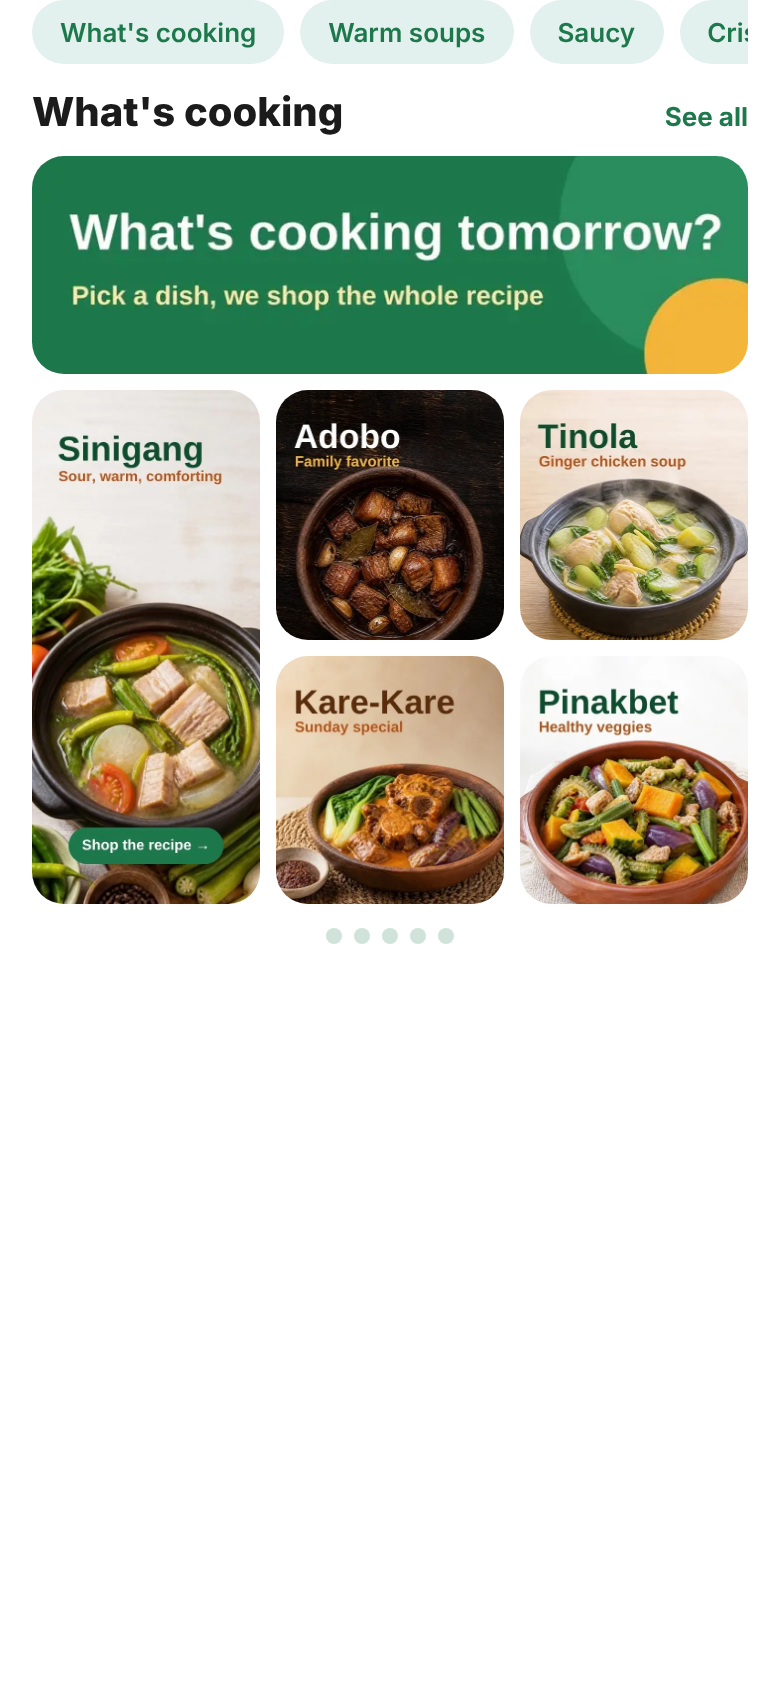
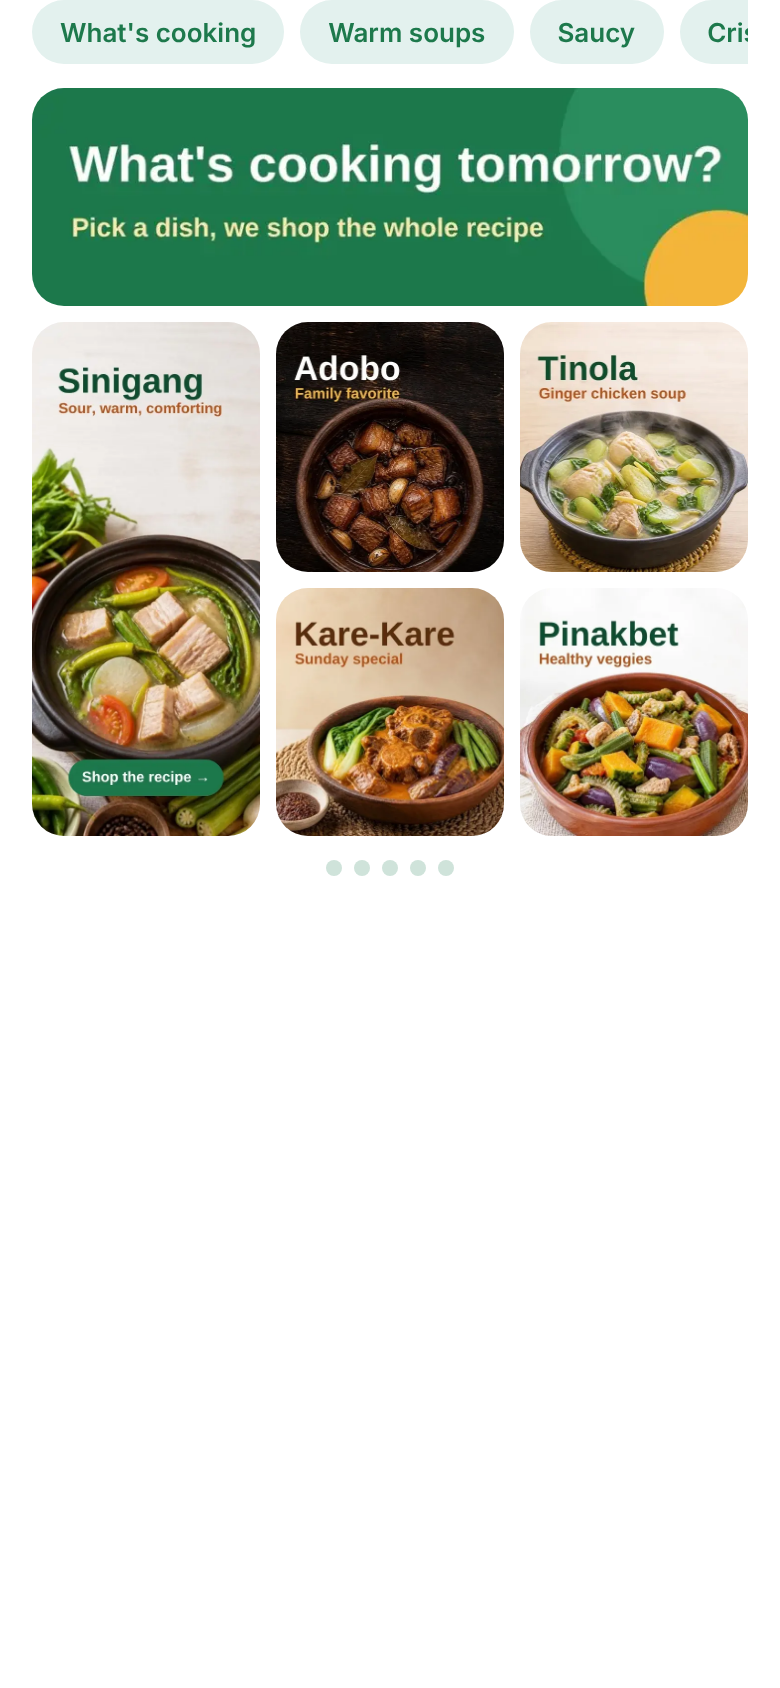
Drop per-slide heading row from dish carousel
Claude-Session: https://claude.ai/code/session_011CTFJWGhM3mFNatVxd1W8N

diff --git a/home-carousel/preview.html b/home-carousel/preview.html
@@ -10,9 +10,6 @@
 #custom_design_146 .sk-car .sk-track { display: flex; gap: 20px; overflow-x: auto; scroll-snap-type: x mandatory; scroll-behavior: smooth; -webkit-overflow-scrolling: touch; scrollbar-width: none; }
 #custom_design_146 .sk-car .sk-track::-webkit-scrollbar { display: none; }
 #custom_design_146 .sk-car .sk-slide { flex: 0 0 100%; scroll-snap-align: start; scroll-margin-top: 120px; }
-#custom_design_146 .sk-car .sk-head { display: flex; justify-content: space-between; align-items: baseline; margin: 0 0 10px; }
-#custom_design_146 .sk-car .sk-title { margin: 0; font-size: 20px; font-weight: 800; color: #1B1B1B; }
-#custom_design_146 .sk-car .sk-all { font-size: 13px; font-weight: 700; color: #1D794C; text-decoration: none; }
 #custom_design_146 .sk-car .sk-hero { display: block; width: 100%; border-radius: 16px; margin: 0 0 8px; }
 #custom_design_146 .sk-car .sk-grid { display: grid; grid-template-columns: 1fr 1fr 1fr; grid-template-rows: auto auto; gap: 8px; }
 #custom_design_146 .sk-car .sk-tile { display: block; border-radius: 16px; overflow: hidden; }
@@ -33,10 +30,6 @@
   </nav>
   <div class="sk-track">
     <section class="sk-slide" id="sk-cooking">
-      <div class="sk-head">
-        <h2 class="sk-title">What&#x27;s cooking</h2>
-        <a class="sk-all" href="/collections">See all</a>
-      </div>
       <img class="sk-hero" src="https://cdn.zepio.io/sukicart/hero_categories_hero/ef5d8caa-83c9-49d5-9c07-f74f681b0f9a.webp" alt="What&#x27;s cooking" loading="lazy">
       <div class="sk-grid">
         <a class="sk-tile sk-tall" href="/collection/sinigang"><img src="https://cdn.zepio.io/sukicart/hero_categories_item/05c066f2-10d9-4dbb-8f82-0ad720e5f807.webp" alt="Sinigang" loading="lazy"></a>
@@ -47,10 +40,6 @@
       </div>
     </section>
     <section class="sk-slide" id="sk-soups">
-      <div class="sk-head">
-        <h2 class="sk-title">Warm soups</h2>
-        <a class="sk-all" href="/collections">See all</a>
-      </div>
       <img class="sk-hero" src="https://cdn.zepio.io/sukicart/hero_categories_hero/cf5a010f-f533-4cd6-8257-9a0d0ef83b5a.webp" alt="Warm soups" loading="lazy">
       <div class="sk-grid">
         <a class="sk-tile sk-tall" href="/collection/bulalo"><img src="https://cdn.zepio.io/sukicart/hero_categories_item/9992415c-9df2-4de7-be99-66d25cb2548c.webp" alt="Bulalo" loading="lazy"></a>
@@ -61,10 +50,6 @@
       </div>
     </section>
     <section class="sk-slide" id="sk-saucy">
-      <div class="sk-head">
-        <h2 class="sk-title">Saucy</h2>
-        <a class="sk-all" href="/collections">See all</a>
-      </div>
       <img class="sk-hero" src="https://cdn.zepio.io/sukicart/hero_categories_hero/73a14e2d-b1f7-44e0-884d-de520325af76.webp" alt="Saucy" loading="lazy">
       <div class="sk-grid">
         <a class="sk-tile sk-tall" href="/collection/caldereta"><img src="https://cdn.zepio.io/sukicart/hero_categories_item/85d25fc8-d9f3-4828-b612-8c203d1a74cc.webp" alt="Caldereta" loading="lazy"></a>
@@ -75,10 +60,6 @@
       </div>
     </section>
     <section class="sk-slide" id="sk-crispy">
-      <div class="sk-head">
-        <h2 class="sk-title">Crispy</h2>
-        <a class="sk-all" href="/collections">See all</a>
-      </div>
       <img class="sk-hero" src="https://cdn.zepio.io/sukicart/hero_categories_hero/673c4694-0a71-46a6-a419-88f7f48f44c6.webp" alt="Crispy" loading="lazy">
       <div class="sk-grid">
         <a class="sk-tile sk-tall" href="/collection/lechon-kawali"><img src="https://cdn.zepio.io/sukicart/hero_categories_item/7f2830e8-5253-41e4-8423-662bc157fd29.webp" alt="Lechon Kawali" loading="lazy"></a>
@@ -89,10 +70,6 @@
       </div>
     </section>
     <section class="sk-slide" id="sk-coconut">
-      <div class="sk-head">
-        <h2 class="sk-title">Coconut</h2>
-        <a class="sk-all" href="/collections">See all</a>
-      </div>
       <img class="sk-hero" src="https://cdn.zepio.io/sukicart/hero_categories_hero/1e806817-fbac-4fa8-b931-6ad733d57974.webp" alt="Coconut" loading="lazy">
       <div class="sk-grid">
         <a class="sk-tile sk-tall" href="/collection/bicol-express"><img src="https://cdn.zepio.io/sukicart/hero_categories_item/9871697c-769d-4269-8ab1-7035a1eaa27f.webp" alt="Bicol Express" loading="lazy"></a>

diff --git a/home-carousel/carousel.html b/home-carousel/carousel.html
@@ -8,10 +8,6 @@
   </nav>
   <div class="sk-track">
     <section class="sk-slide" id="sk-cooking">
-      <div class="sk-head">
-        <h2 class="sk-title">What&#x27;s cooking</h2>
-        <a class="sk-all" href="/collections">See all</a>
-      </div>
       <img class="sk-hero" src="https://cdn.zepio.io/sukicart/hero_categories_hero/ef5d8caa-83c9-49d5-9c07-f74f681b0f9a.webp" alt="What&#x27;s cooking" loading="lazy">
       <div class="sk-grid">
         <a class="sk-tile sk-tall" href="/collection/sinigang"><img src="https://cdn.zepio.io/sukicart/hero_categories_item/05c066f2-10d9-4dbb-8f82-0ad720e5f807.webp" alt="Sinigang" loading="lazy"></a>
@@ -22,10 +18,6 @@
       </div>
     </section>
     <section class="sk-slide" id="sk-soups">
-      <div class="sk-head">
-        <h2 class="sk-title">Warm soups</h2>
-        <a class="sk-all" href="/collections">See all</a>
-      </div>
       <img class="sk-hero" src="https://cdn.zepio.io/sukicart/hero_categories_hero/cf5a010f-f533-4cd6-8257-9a0d0ef83b5a.webp" alt="Warm soups" loading="lazy">
       <div class="sk-grid">
         <a class="sk-tile sk-tall" href="/collection/bulalo"><img src="https://cdn.zepio.io/sukicart/hero_categories_item/9992415c-9df2-4de7-be99-66d25cb2548c.webp" alt="Bulalo" loading="lazy"></a>
@@ -36,10 +28,6 @@
       </div>
     </section>
     <section class="sk-slide" id="sk-saucy">
-      <div class="sk-head">
-        <h2 class="sk-title">Saucy</h2>
-        <a class="sk-all" href="/collections">See all</a>
-      </div>
       <img class="sk-hero" src="https://cdn.zepio.io/sukicart/hero_categories_hero/73a14e2d-b1f7-44e0-884d-de520325af76.webp" alt="Saucy" loading="lazy">
       <div class="sk-grid">
         <a class="sk-tile sk-tall" href="/collection/caldereta"><img src="https://cdn.zepio.io/sukicart/hero_categories_item/85d25fc8-d9f3-4828-b612-8c203d1a74cc.webp" alt="Caldereta" loading="lazy"></a>
@@ -50,10 +38,6 @@
       </div>
     </section>
     <section class="sk-slide" id="sk-crispy">
-      <div class="sk-head">
-        <h2 class="sk-title">Crispy</h2>
-        <a class="sk-all" href="/collections">See all</a>
-      </div>
       <img class="sk-hero" src="https://cdn.zepio.io/sukicart/hero_categories_hero/673c4694-0a71-46a6-a419-88f7f48f44c6.webp" alt="Crispy" loading="lazy">
       <div class="sk-grid">
         <a class="sk-tile sk-tall" href="/collection/lechon-kawali"><img src="https://cdn.zepio.io/sukicart/hero_categories_item/7f2830e8-5253-41e4-8423-662bc157fd29.webp" alt="Lechon Kawali" loading="lazy"></a>
@@ -64,10 +48,6 @@
       </div>
     </section>
     <section class="sk-slide" id="sk-coconut">
-      <div class="sk-head">
-        <h2 class="sk-title">Coconut</h2>
-        <a class="sk-all" href="/collections">See all</a>
-      </div>
       <img class="sk-hero" src="https://cdn.zepio.io/sukicart/hero_categories_hero/1e806817-fbac-4fa8-b931-6ad733d57974.webp" alt="Coconut" loading="lazy">
       <div class="sk-grid">
         <a class="sk-tile sk-tall" href="/collection/bicol-express"><img src="https://cdn.zepio.io/sukicart/hero_categories_item/9871697c-769d-4269-8ab1-7035a1eaa27f.webp" alt="Bicol Express" loading="lazy"></a>

diff --git a/home-carousel/carousel.css b/home-carousel/carousel.css
@@ -7,9 +7,6 @@
 .sk-car .sk-track { display: flex; gap: 20px; overflow-x: auto; scroll-snap-type: x mandatory; scroll-behavior: smooth; -webkit-overflow-scrolling: touch; scrollbar-width: none; }
 .sk-car .sk-track::-webkit-scrollbar { display: none; }
 .sk-car .sk-slide { flex: 0 0 100%; scroll-snap-align: start; scroll-margin-top: 120px; }
-.sk-car .sk-head { display: flex; justify-content: space-between; align-items: baseline; margin: 0 0 10px; }
-.sk-car .sk-title { margin: 0; font-size: 20px; font-weight: 800; color: #1B1B1B; }
-.sk-car .sk-all { font-size: 13px; font-weight: 700; color: #1D794C; text-decoration: none; }
 .sk-car .sk-hero { display: block; width: 100%; border-radius: 16px; margin: 0 0 8px; }
 .sk-car .sk-grid { display: grid; grid-template-columns: 1fr 1fr 1fr; grid-template-rows: auto auto; gap: 8px; }
 .sk-car .sk-tile { display: block; border-radius: 16px; overflow: hidden; }

diff --git a/home-carousel/build.py b/home-carousel/build.py
@@ -22,10 +22,6 @@ for s in slides:
 out += ['  </nav>', '  <div class="sk-track">']
 for s in slides:
     out += [f'    <section class="sk-slide" id="sk-{s["id"]}">',
-            '      <div class="sk-head">',
-            f'        <h2 class="sk-title">{html.escape(s["chip"])}</h2>',
-            '        <a class="sk-all" href="/collections">See all</a>',
-            '      </div>',
             f'      <img class="sk-hero" src="{src(s["hero"])}" alt="{html.escape(s["chip"])}" loading="lazy">',
             '      <div class="sk-grid">']
     for i, (key, name, slug) in enumerate(s["tiles"]):
